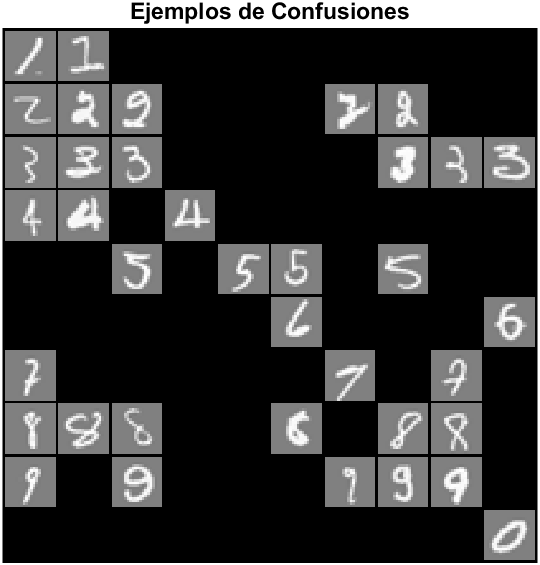
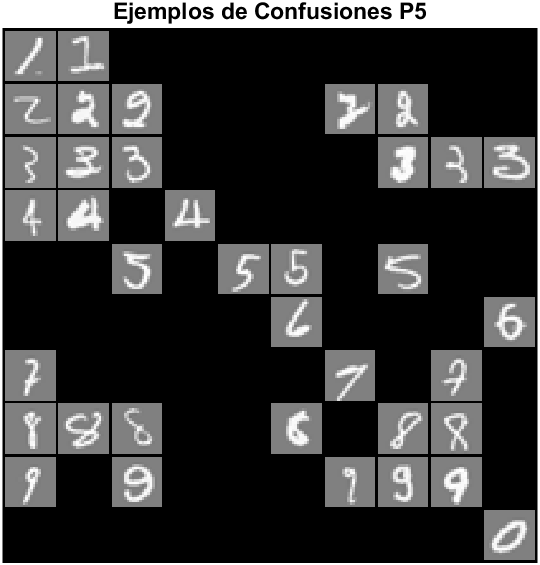
p6 fin

Changed region(s): [[0.2074, 0.0, 0.8, 0.0602]]

diff --git a/P6/confusionMatrix.m b/P6/confusionMatrix.m
@@ -1,0 +1,33 @@
+function [m,P,R] = confusionMatrix(ytest_pred, ytest, N_clases)
+% Calcular matriz de confusión y precisión/recall
+
+m = zeros(N_clases,N_clases);
+
+for i=1:N_clases
+    for j=1:N_clases
+        m(i,j) = sum(ytest_pred == i & ytest == j);
+    end
+end
+
+
+%   Array de precisiones. La componente i in [1,10] contiene la precisión
+% de la clase i. La precisión de la clase 0 está en la componente i=10.
+P = zeros(1,N_clases);
+
+%   Array de recalls. La componente i in [1,10]contiene el recall de la 
+% clase i. El recall de la clase 0 está en la componente i=10.
+R = zeros(1,N_clases);
+
+% Cálculo precisión de cada clase
+for i=1:N_clases-1
+    P(i) = m(i,i)/sum(m(i,:));
+end
+P(N_clases) = m(N_clases,N_clases)/sum(m(N_clases,:));
+
+% Cálculo recall de cada clase
+for i=1:N_clases-1
+    R(i) = m(i,i)/sum(m(:,i));
+end
+R(N_clases) = m(N_clases,N_clases)/sum(m(:,N_clases));
+end
+

diff --git a/P5/verConfusiones.m b/P5/verConfusiones.m
@@ -18,5 +18,5 @@ for i = 1:nc
 end
 figure        
 displayData(Xdib);
-title('Ejemplos de Confusiones');
+title('Ejemplos de Confusiones P5');
 drawnow;

diff --git a/P6/verConfusiones.m b/P6/verConfusiones.m
@@ -18,5 +18,5 @@ for i = 1:nc
 end
 figure        
 displayData(Xdib);
-title('Ejemplos de Confusiones');
+title('Ejemplos de Confusiones P6');
 drawnow;
